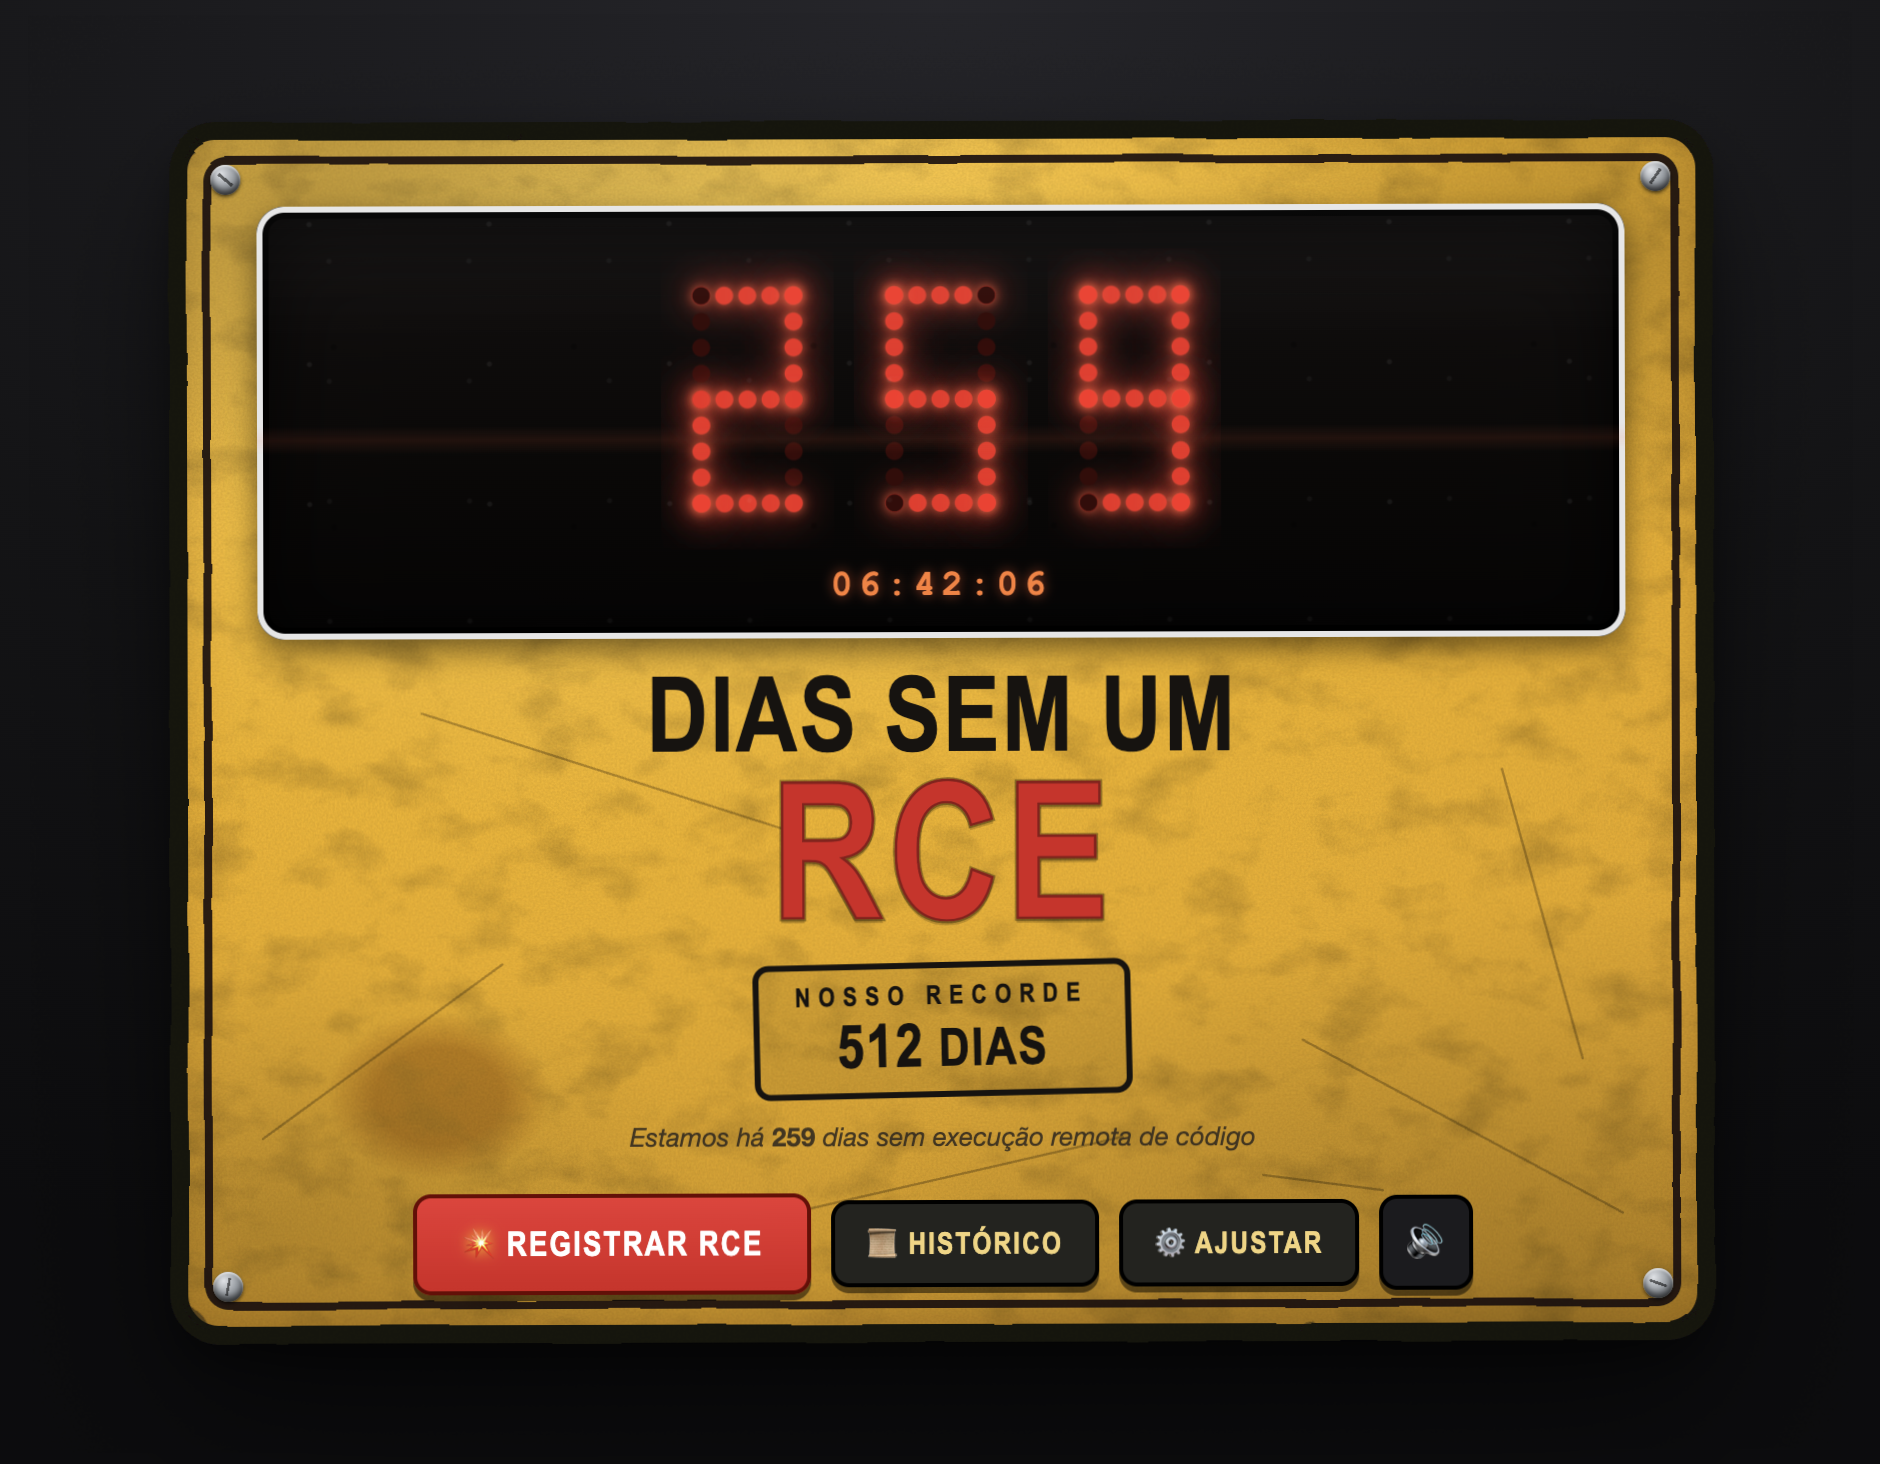
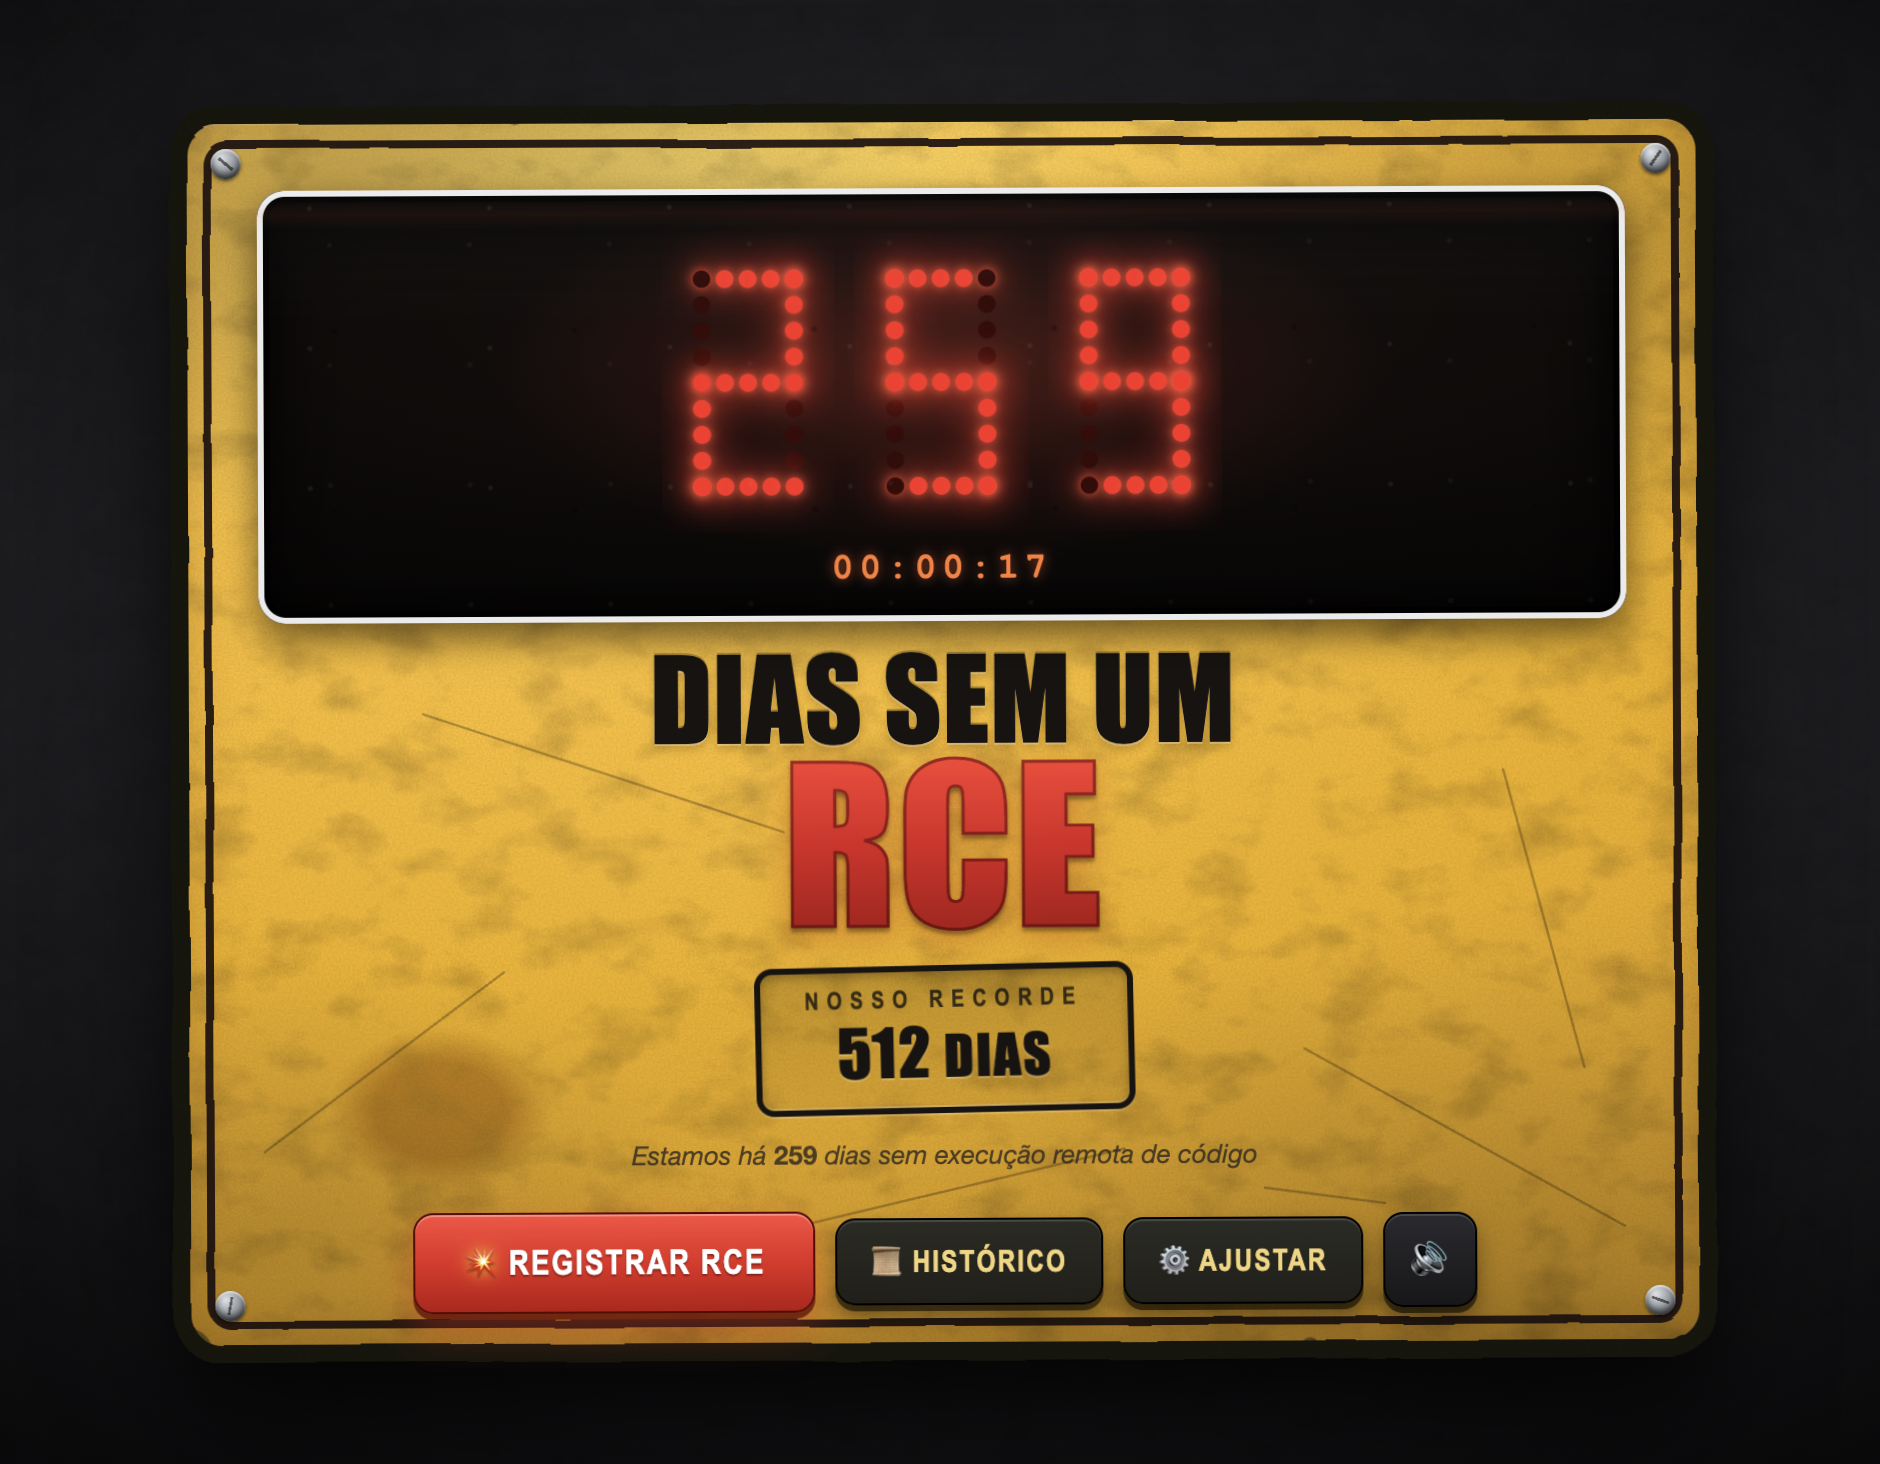
feat(ui): revisão visual — parede com spotlight, tipografia estampada e bloom no LED
- Fundo agora é uma parede industrial: textura de concreto, holofote quente
  atrás da placa e vinheta nas bordas (placa parece montada na parede).
- Tipografia do título mais pesada e estampada (Impact/Haettenschweiler) com
  relevo; 'RCE' com gradiente vermelho, contorno e sombra (efeito 3D).
- Painel LED com luz ambiente vermelha (bloom) pulsando dos dígitos, painel
  mais profundo e borda branca refinada.
- Selo de recorde cravado no metal (deboss), botões com mais profundidade e
  botão de perigo com glow vermelho.
- Amarelo mais rico com melhor iluminação de topo.
- Previews EN/PT regeneradas.

diff --git a/renderer/styles.css b/renderer/styles.css
@@ -28,15 +28,50 @@ html, body {
 }
 
 body {
+  background: #0b0b0d;
+}
+
+/* ---------------- Parede industrial de fundo ---------------- */
+.wall {
+  position: fixed;
+  inset: 0;
+  z-index: 0;
+  pointer-events: none;
   background:
-    radial-gradient(120% 90% at 50% 0%, #26262b 0%, #141416 55%, #0c0c0e 100%);
+    radial-gradient(90% 70% at 50% 42%, #34343a 0%, #232327 42%, #161619 72%, #0c0c0e 100%);
+}
+/* textura de concreto */
+.wall-grain {
+  position: absolute;
+  inset: -2%;
+  filter: url(#concrete);
+  opacity: .16;
+  mix-blend-mode: overlay;
+}
+/* holofote quente atrás da placa */
+.spotlight {
+  position: absolute;
+  inset: 0;
+  background:
+    radial-gradient(38% 34% at 50% 42%, rgba(255,220,140,.22) 0%, rgba(255,195,100,.1) 45%, transparent 72%),
+    radial-gradient(60% 55% at 50% 40%, rgba(255,210,120,.08) 0%, transparent 70%);
+  mix-blend-mode: screen;
+}
+/* vinheta nas bordas */
+.vignette {
+  position: absolute;
+  inset: 0;
+  background:
+    radial-gradient(120% 100% at 50% 45%, transparent 52%, rgba(0,0,0,.5) 88%, rgba(0,0,0,.72) 100%);
 }
 
 .stage {
+  position: relative;
+  z-index: 1;
   height: 100vh;
   display: grid;
   place-items: center;
-  padding: 26px;
+  padding: 30px;
 }
 
 /* ---------------- Placa amarela (moldura grunge) ---------------- */
@@ -45,14 +80,15 @@ body {
   position: relative;
   width: min(760px, 92vw);
   background:
-    radial-gradient(140% 120% at 30% 10%, #ffce46 0%, var(--yellow) 40%, var(--yellow-deep) 100%);
+    radial-gradient(135% 115% at 32% 6%, #ffd75e 0%, #ffc22e 34%, var(--yellow) 58%, var(--yellow-deep) 100%);
   border-radius: 18px;
   padding: 22px 24px 18px;
   box-shadow:
-    0 34px 70px rgba(0,0,0,.6),
-    0 10px 22px rgba(0,0,0,.45),
-    inset 0 2px 0 rgba(255,255,255,.25),
-    inset 0 -8px 24px rgba(120,70,0,.35);
+    0 44px 90px rgba(0,0,0,.62),
+    0 18px 34px rgba(0,0,0,.5),
+    0 2px 0 rgba(255,255,255,.12),
+    inset 0 3px 1px rgba(255,255,255,.32),
+    inset 0 -10px 28px rgba(120,70,0,.4);
   isolation: isolate;
   animation: signSway 9s ease-in-out infinite;
   transform-origin: 50% -40px;
@@ -224,16 +260,33 @@ body {
 .panel {
   position: relative;
   background:
-    linear-gradient(180deg, #131010 0%, var(--panel-bg) 60%, #050404 100%);
+    radial-gradient(120% 90% at 50% 30%, #17110f 0%, #0c0908 55%, #040303 100%);
   border-radius: 14px;
   padding: 22px 26px 16px;
   margin: 6px 4px 14px;
   box-shadow:
-    inset 0 0 0 3px rgba(255,255,255,.9),   /* borda branca fina (Imagem 1) */
+    inset 0 0 0 3px rgba(255,255,255,.92),   /* borda branca fina (Imagem 1) */
     inset 0 0 0 6px #000,
-    inset 0 10px 40px rgba(0,0,0,.9),
-    0 6px 14px rgba(0,0,0,.5);
+    inset 0 12px 44px rgba(0,0,0,.92),
+    inset 0 -6px 20px rgba(0,0,0,.7),
+    0 8px 18px rgba(0,0,0,.55);
   overflow: hidden;
+}
+
+/* luz ambiente vermelha emanando dos dígitos */
+.led-bloom {
+  position: absolute;
+  inset: 0;
+  z-index: 0;
+  pointer-events: none;
+  background:
+    radial-gradient(46% 60% at 50% 42%, rgba(255,40,25,.28) 0%, rgba(200,20,10,.12) 40%, transparent 72%);
+  mix-blend-mode: screen;
+  animation: bloomPulse 4.2s ease-in-out infinite;
+}
+@keyframes bloomPulse {
+  0%, 100% { opacity: .9; }
+  50% { opacity: .62; }
 }
 
 /* brilho de vidro + scanlines sutis + vinheta */
@@ -361,64 +414,80 @@ body {
 /* ---------------- Tipografia da placa ---------------- */
 
 .headline {
-  margin: 4px 0 2px;
+  margin: 6px 0 2px;
   text-align: center;
   color: var(--ink);
-  font-family: "Arial Narrow", "Oswald", Impact, sans-serif;
+  font-family: "Haettenschweiler", "Impact", "Franklin Gothic Bold", "Arial Narrow", sans-serif;
   font-weight: 800;
-  line-height: .92;
+  line-height: .9;
   text-transform: uppercase;
 }
 .headline .l1 {
   display: block;
-  font-size: clamp(30px, 6.5vw, 52px);
-  letter-spacing: 1px;
+  font-size: clamp(32px, 6.8vw, 56px);
+  letter-spacing: .5px;
+  /* relevo estampado no metal */
+  text-shadow:
+    0 1px 0 rgba(255,255,255,.28),
+    0 -1px 0 rgba(0,0,0,.25),
+    0 3px 5px rgba(90,55,0,.28);
 }
 .headline .l2 {
   display: block;
-  font-size: clamp(52px, 12vw, 96px);
-  letter-spacing: 2px;
+  font-size: clamp(56px, 12.5vw, 104px);
+  letter-spacing: 1px;
   color: var(--danger);
-  -webkit-text-stroke: 2px rgba(0,0,0,.35);
-  text-shadow: 0 2px 0 rgba(0,0,0,.18);
+  background: linear-gradient(180deg, #ff4132 0%, var(--danger) 55%, #a81414 100%);
+  -webkit-background-clip: text;
+  background-clip: text;
+  -webkit-text-fill-color: transparent;
+  -webkit-text-stroke: 1.5px rgba(50,0,0,.45);
+  filter: drop-shadow(0 2px 1px rgba(0,0,0,.35)) drop-shadow(0 4px 8px rgba(150,10,0,.3));
 }
 
 .record {
-  margin: 12px auto 4px;
+  margin: 14px auto 4px;
   width: fit-content;
   display: flex;
   flex-direction: column;
   align-items: center;
   color: var(--ink);
-  background: rgba(0,0,0,.08);
+  background:
+    linear-gradient(180deg, rgba(0,0,0,.16), rgba(0,0,0,.04));
   border: 3px solid var(--ink);
-  border-radius: 8px;
-  padding: 6px 18px;
-  transform: rotate(-1.2deg);
+  border-radius: 9px;
+  padding: 7px 22px 8px;
+  transform: rotate(-1.1deg);
+  box-shadow:
+    inset 0 2px 5px rgba(0,0,0,.28),
+    inset 0 -1px 0 rgba(255,255,255,.22),
+    0 1px 0 rgba(255,255,255,.2);
 }
 .rec-label {
   font-family: "Arial Narrow", Impact, sans-serif;
   font-weight: 700;
-  font-size: 13px;
+  font-size: 12px;
   letter-spacing: 4px;
+  opacity: .82;
 }
 .rec-val {
-  font-family: "Arial Narrow", Impact, sans-serif;
+  font-family: "Haettenschweiler", "Impact", "Arial Narrow", sans-serif;
   font-weight: 800;
-  font-size: 26px;
+  font-size: 27px;
   letter-spacing: 1px;
+  text-shadow: 0 1px 0 rgba(255,255,255,.22);
 }
-.rec-val b { font-size: 30px; }
+.rec-val b { font-size: 32px; }
 
 .tagline {
-  margin: 12px 4px 2px;
+  margin: 13px 4px 2px;
   text-align: center;
   color: var(--ink-soft);
   font-size: 13px;
   font-style: italic;
-  opacity: .85;
+  opacity: .8;
 }
-.tagline b { font-style: normal; }
+.tagline b { font-style: normal; font-weight: 800; }
 
 /* ---------------- Ações ---------------- */
 
@@ -440,27 +509,37 @@ body {
   text-transform: uppercase;
   font-size: 15px;
   color: #fff;
-  background: #1b1b1e;
-  border: 2px solid #000;
-  border-radius: 9px;
-  padding: 10px 16px;
+  background: linear-gradient(180deg, #2a2a2f 0%, #171719 100%);
+  border: 1px solid #000;
+  border-radius: 10px;
+  padding: 11px 17px;
   cursor: pointer;
-  transition: transform .08s ease, filter .15s ease, background .15s ease;
-  box-shadow: 0 3px 0 rgba(0,0,0,.5);
+  transition: transform .08s ease, filter .15s ease, box-shadow .15s ease;
+  box-shadow:
+    inset 0 1px 0 rgba(255,255,255,.14),
+    0 3px 0 rgba(0,0,0,.55),
+    0 6px 12px rgba(0,0,0,.4);
 }
-.btn:hover { filter: brightness(1.18); }
-.btn:active { transform: translateY(2px); box-shadow: 0 1px 0 rgba(0,0,0,.5); }
+.btn:hover { filter: brightness(1.2); transform: translateY(-1px); }
+.btn:active { transform: translateY(2px); box-shadow: inset 0 1px 0 rgba(255,255,255,.1), 0 1px 0 rgba(0,0,0,.55); }
 
 .btn.danger {
-  background: linear-gradient(180deg, #e33 0%, var(--danger) 100%);
-  border-color: #6c0000;
+  background: linear-gradient(180deg, #ff4a3c 0%, #e0261d 55%, #b81411 100%);
+  border-color: #5c0000;
+  color: #fff;
   font-size: 17px;
-  padding: 12px 22px;
+  padding: 13px 24px;
+  text-shadow: 0 1px 1px rgba(0,0,0,.35);
+  box-shadow:
+    inset 0 1px 0 rgba(255,255,255,.35),
+    0 3px 0 rgba(90,0,0,.7),
+    0 8px 20px rgba(220,30,20,.4);
 }
-.btn.danger .boom { filter: drop-shadow(0 0 3px rgba(255,200,0,.8)); }
-.btn.primary { background: linear-gradient(180deg, #2b8a3e, #1f6e30); border-color:#0c3d18; }
-.btn.ghost { background: #23231f; color: #f4d47a; }
-.btn.icon { font-size: 18px; padding: 10px 12px; }
+.btn.danger:hover { box-shadow: inset 0 1px 0 rgba(255,255,255,.4), 0 3px 0 rgba(90,0,0,.7), 0 10px 26px rgba(255,50,30,.55); }
+.btn.danger .boom { filter: drop-shadow(0 0 4px rgba(255,210,0,.9)); }
+.btn.primary { background: linear-gradient(180deg, #37a24d, #1f6e30); border-color:#0c3d18; }
+.btn.ghost { background: linear-gradient(180deg, #2b2b24, #201f18); color: #f4d47a; }
+.btn.icon { font-size: 18px; padding: 11px 13px; }
 .btn.danger-text { color: #ff6b6b; }
 
 /* ---------------- Modais ---------------- */

diff --git a/renderer/index.html b/renderer/index.html
@@ -29,6 +29,12 @@
         <feColorMatrix in="n" type="matrix"
           values="0 0 0 0 0  0 0 0 0 0  0 0 0 0 0  0 0 0 .55 0"/>
       </filter>
+      <!-- textura de concreto da parede -->
+      <filter id="concrete">
+        <feTurbulence type="fractalNoise" baseFrequency="0.045 0.05" numOctaves="4" seed="33" stitchTiles="stitch" result="n"/>
+        <feColorMatrix in="n" type="matrix"
+          values="0 0 0 0 0  0 0 0 0 0  0 0 0 0 0  0 0 0 .8 0"/>
+      </filter>
       <!-- manchas de ferrugem grandes e irregulares -->
       <filter id="rust">
         <feTurbulence type="fractalNoise" baseFrequency="0.03 0.045" numOctaves="4" seed="21" result="n"/>
@@ -38,6 +44,13 @@
       </filter>
     </defs>
   </svg>
+
+  <!-- parede industrial de fundo -->
+  <div class="wall" aria-hidden="true">
+    <div class="wall-grain"></div>
+    <div class="spotlight"></div>
+    <div class="vignette"></div>
+  </div>
 
   <main class="stage">
     <div class="sign" id="sign">
@@ -63,6 +76,7 @@
       <div class="sign-inner">
         <!-- Painel LED -->
         <section class="panel" id="panel">
+          <div class="led-bloom" aria-hidden="true"></div>
           <div class="panel-glass" aria-hidden="true"></div>
           <div class="panel-sheen" aria-hidden="true"></div>
           <div class="panel-dust" aria-hidden="true"></div>